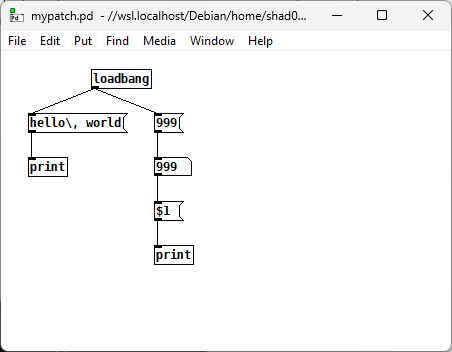
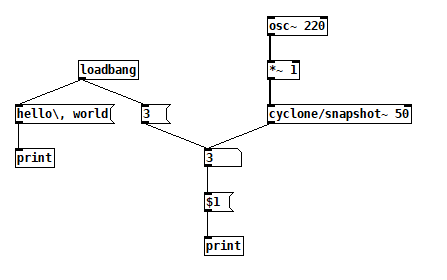
code organising/refactoring, readme updated

diff --git a/README.md b/README.md
@@ -1,10 +1,8 @@
 # pdmonad
 ## Write Pure Data patches in Haskell.
+PdMonad is an eDSL/library/program for writing Pure Data patches through text. 
 
-use with:
-```
-cabal run
-```
+It uses [graphviz](https://hackage.haskell.org/package/graphviz) for auto layouting the generated patch.
 
 current patch creation:
 ```haskell
@@ -13,56 +11,75 @@ current patch creation:
 module Main where
 
 import PdMonad.Core
-import PdMonad.Identifiers as Pd
+import PdMonad.Identifiers
 
-num = Pd.number # 0
-lb = Pd.loadbang # 3
-dollarOne = Pd.msg "$1" # 1
-hello = Pd.msg "hello, world"
-loadedMsg = Pd.msg "999"
+num = number # 0
+lbang = obj "loadbang" # 3
+variable = msg "$1" # 1
+hworld = msg "hello, world"
+three = msg "3"
 
 
 main :: IO ()
 main =  writePatch "mypatch.pd"
     [
-        newCol --> num --> dollarOne --> pdprint # 2,
-        newCol --> lb --> hello # 4 --> pdprint # 5,
-        newCol --> lb --> loadedMsg # 6 --> num
+        PdPatch [] [] --> num --> variable --> obj "print" # 2,
+        PdPatch [] [] --> lbang --> hworld # 4 --> obj "print" # 5,
+        PdPatch [] [] --> lbang --> three # 6 --> num,
+        PdPatch [] [] --> 
+            obj "osc~ 220" # 7 --> obj "*~ 1" # 8 --> obj "cyclone/snapshot~ 50" # 9 --> num
     ]
 ```
 
-becomes (thanks to Graphviz auto layouting):
+use with:
+```
+cabal run
+```
+
+"compiles" to:
 
 ![Pd created patch](resources/img/layouted.png)
 
 
-## Non-Native Identifier
-Use e.g. ```obj "pack f f f f"``` for creating objects without a (currently) native identifier. Remember to assign the ```objectId```.
 
+## Examples for creating objects/messages/numbers:
 
-# General file structure of a patch
-![Pd base patch](resources/img/base.png)
+```obj "pack f f f f"``` for creating objects.
+
+```msg "hello, world``` for messages.
+
+```num``` for a number.
+
+always use ```#``` to specify the object/message/number id, which is relevant for the layouting.
 
 e.g.:
+```obj "osc~ 220" # 3```
+
+```-->``` creates a connection between two objects (currently connecting the first inlet of the leftside object with the first outlet of the next object).
+
+
+# Structure of the generated patch
+
+A pd patch consists of a list of objects with coordinate infos and arguments + a list of connections. the objects id's are specified by order of appeareance:
 ```
-#N canvas 940 104 502 581 12;
-#X obj 72 67 loadbang;
-#X msg 72 91 220;
-#X floatatom 72 115 5 0 0 0 - - - 0;
-#X obj 72 138 osc~;
-#X obj 72 162 *~ 1;
-#X obj 72 186 dac~;
+#N canvas 0 50 450 300 12;
+#X floatatom 216.0 150.0 5 0 0 0 - - - 0;;
+#X msg 216.0 194.0 \$1;
+#X obj 216.0 238.0 print;
+#X obj 90.0 62.0 loadbang;
+#X msg 27.0 106.0 hello\, world;
+#X obj 27.0 150.0 print;
+#X msg 153.0 106.0 3;
+#X obj 279.0 18.0 osc~ 220;
+#X obj 279.0 62.0 *~ 1;
+#X obj 279.0 106.0 cyclone/snapshot~ 50;
 #X connect 0 0 1 0;
 #X connect 1 0 2 0;
-#X connect 2 0 3 0;
 #X connect 3 0 4 0;
 #X connect 4 0 5 0;
-#X connect 4 0 5 1;
-```
-
-# Developed/Tested with:
-```
-GHC 9.4.5
-Cabal 3.6.2.0
-Pure Data 0.53.1
+#X connect 3 0 6 0;
+#X connect 6 0 0 0;
+#X connect 7 0 8 0;
+#X connect 8 0 9 0;
+#X connect 9 0 0 0;
 ```
